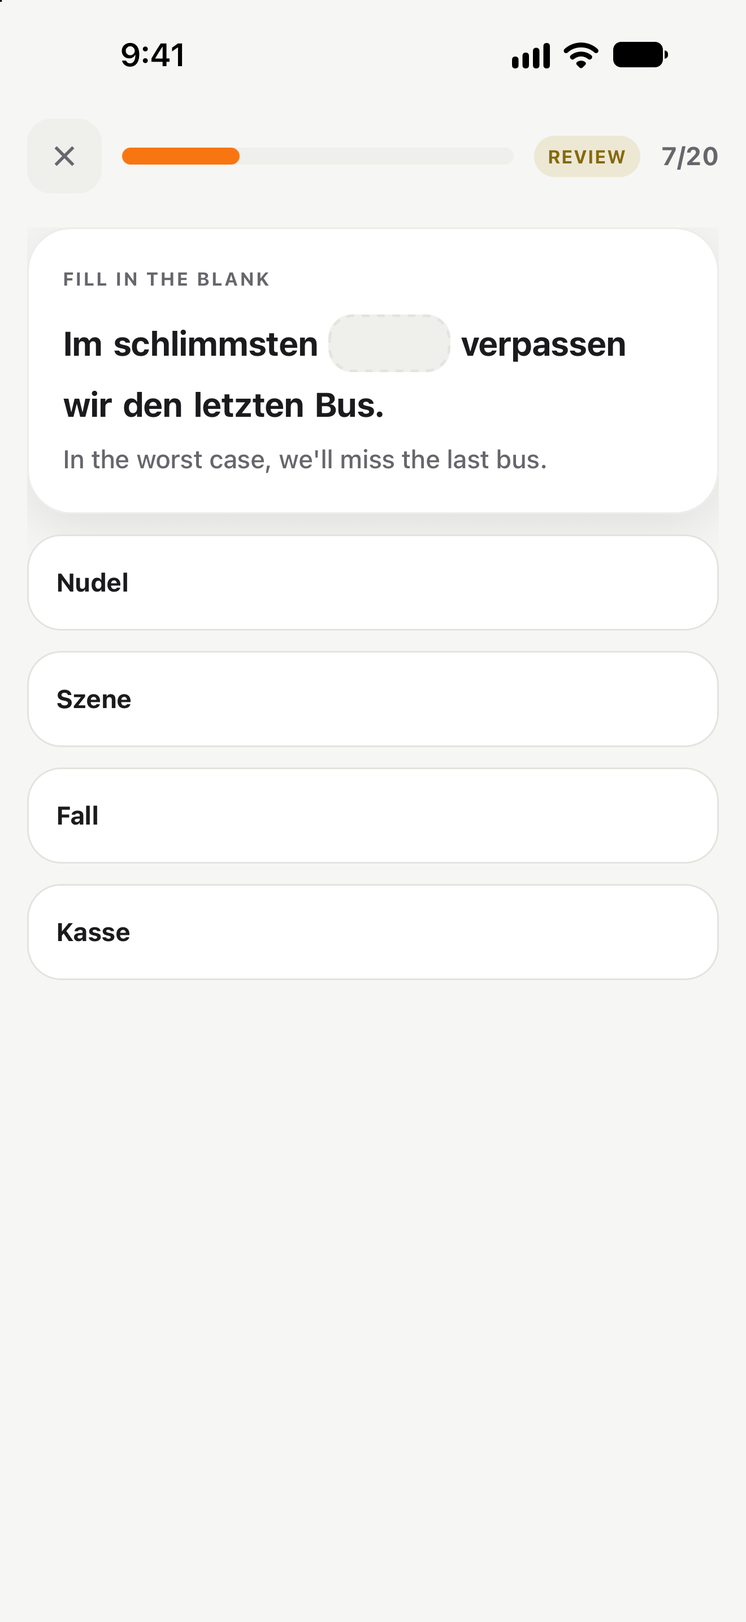
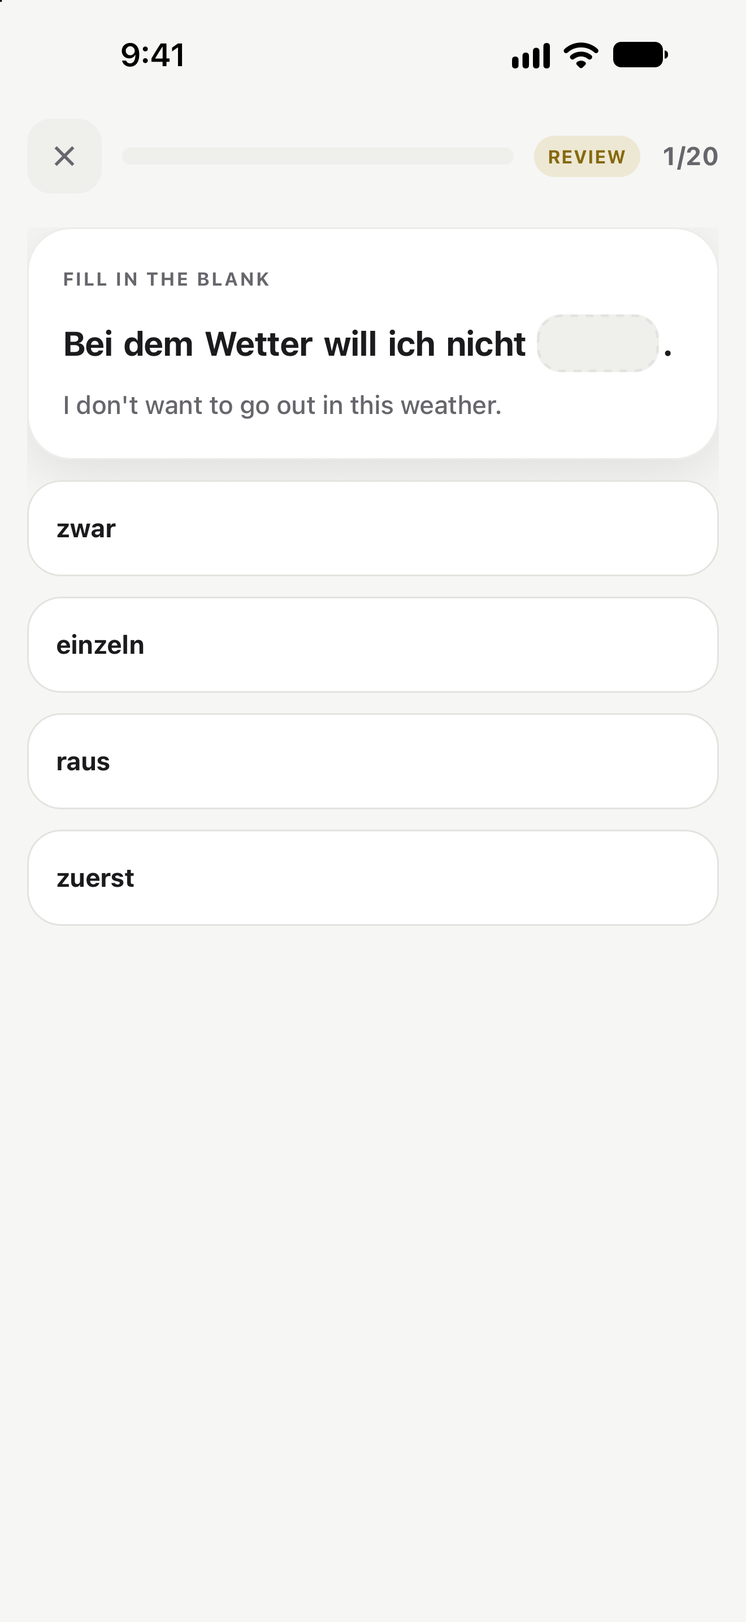
Vitrin 8. tur: en/de 'sıfırdan ya da seviyenden', Play kısa açıklaması farkı söylüyor, Premium ne açtığıyla, deneme sınavı görev türleri, günlük tur karesi kasvetsiz cümleyle; hedef kitle paneli
Claude-Session: https://claude.ai/code/session_011dWXugcvRJqz57tBPnvci7

Changed region(s): [[0.0621, 0.1862, 0.9008, 0.5896], [0.1553, 0.0931, 0.3106, 0.1241]]

diff --git a/docs/store/README.md b/docs/store/README.md
@@ -25,8 +25,8 @@ Türkçe anlatım); sınav bu eğitimin sonucu olarak ikinci katman. Sınava haz
 (tarihi olan öğrenci) ayrıca WhatsApp/Telegram grup kampanyasıyla (2 ay) hedefleniyor;
 kampanya vitrinde YOK (görselde fiyat/süreli teklif olmaz), grup sayfasında.
 
-**Altyazı / tek cümle:** **"Konuş, anla, sınava hazırlan"** (tr, 28 karakter; iOS subtitle,
-Play kısa açıklamanın ilk cümlesi). en-US: **"Speak, understand, settle in"** (28) ·
+**Altyazı / tek cümle:** **"Konuş, anla, sınava hazırlan"** (tr, 28 karakter; iOS subtitle. Play kısa
+açıklaması 2026-10-06'dan beri altyazıyı tekrarlamıyor, farkı söylüyor; aşağıda). en-US: **"Speak, understand, settle in"** (28) ·
 de-DE: **"Sprechen, verstehen, bis C1"** (27). 2026-10-05 (prova 3. tur, Samet'in kararı): en ve de
 vitrinde sınav geri planda; taşınan ve iş için öğrenen okur "exam-ready / prüfungsfit"i görüp
 kendini dışarıda hissediyordu (iki turda aynı sonuç). Türkçe vitrin sınav odaklı kalıyor. en/de uzun
@@ -34,7 +34,7 @@ açıklamada sınav bölümü günlük turdan sonra, karelerde sınav karesi 5. 
 Ondan önce "exam-ready" / "prüfungsfit", ilk olarak "ace exams" / "bestehen" vardı ("ace exams" ve
 "bestehen" sınav geçme vaadi sayılabiliyordu; denetim M14 kapandı).
 
-**Play kısa açıklaması (tr, 70):** "Konuş, anla, sınava hazırlan: sıfırdan C1'e Almanca, Türkçe anlatımla." (iOS altyazısıyla aynı cümleyle başlar.)
+**Play kısa açıklaması (tr, 75):** "Almancayı konuşarak öğren: yapay zekâ düzeltir, Türkçe anlatır. Reklam yok." (2026-10-06: altyazıyı tekrarlamak yerine farkı söylüyor: konuşarak, yapay zekâ düzeltmesi, Türkçe anlatım, reklamsız)
 
 **Sayılar (2026-09-25, Samet):** birim KELİME + ALIŞTIRMA + DENEME SINAVI; adım/ünite sayısı
 anılmaz. Yuvarlak ve doğru: Almanca "8.500'den fazla kelime, 900'den fazla alıştırma, **50'den fazla
@@ -131,6 +131,22 @@ içeriği önerilerini reddetti):** Türkçe 3. kare başlığı "Dört becerili
 "Ausbildung, iş ya da aile birleşimi için Almancaya sıfırdan mı başlıyorsun?" (vaat yok; sertifika uyarısı
 yerinde). "Sohbette yazarak da cevap verirsin" girişe taşındı. Yer için üç cümle kısaldı.
 
+**Vitrin provası 8. tur (2026-10-06; Samet beş önerinin hepsini onayladı):**
+- en/de 1. kare ve açılış "sıfırdan ya da seviyenden" (en "From zero or your level to C1", de "Von null oder ab
+  deinem Niveau bis C1"); landing ve meta açıklama aynı.
+- Play kısa açıklaması altyazıyı tekrarlamıyor, farkı söylüyor (konuşarak, yapay zekâ düzeltmesi, anadilde anlatım,
+  reklamsız); tablo aşağıda.
+- Premium paragrafı ne açtığıyla: "Premium; … bütün yapay zekâlı konuşma ve yazma çalışmalarını hemen, tüm deneme
+  sınavlarını (her seviyede 3'lü paketler hâlinde, bitirdikçe sıradaki) ve ekran kapalı Cepte yürüyüşü açar".
+- Deneme sınavlarının görev türleri, marka anmadan: tr/en "e-posta ve görüş yazısı, birlikte plan yapma, kısa sunum"
+  (Almanca kurs: Nachricht/E-Mail, Forumbeitrag, birlikte planlama, sunum); de vitrin İngilizce kursu için
+  "E-Mails und Meinungstexte, Fragen beantworten, gemeinsam diskutieren" (İngilizce kurs: email/letter, opinion,
+  soru-cevap, tartışma). "Sık görülen türler" kurumla bağ iması değil.
+- Günlük tur karesi üç dil çiftinde yeniden çekildi (iPhone + Android telefon): tr/en-de "Bei dem Wetter will ich
+  nicht ___ (raus)", de-en "Did you check the ___ this morning?". Eskileri işsizlik ve işten ayrılma cümlesiydi.
+- Yer için hesap silme cümlesi açıklamadan çıktı (mağazalar uygulama içinde istiyor; uygulamada ve gizlilik
+  politikasında duruyor), tr başarı belgesi ve de abonelik cümlesi kısaldı.
+
 **Vitrin provası 7. tur, 16 kişi (2026-10-06; Samet 1–3'ü onayladı, içerikteki ek sahneleri anma önerisini
 reddetti):** de "Probeprüfungen öffnen sich pro Niveau zu dritt" yanlıştı ("zu dritt" = üç kişi olarak) →
 "in Dreierpaketen". Paket kuralı üç dilde koddaki gibi açık (`computePacks`): "3'lü paketler hâlinde açılır, paketi
@@ -182,7 +198,7 @@ yürüyüş ücretsizde günde 3 tur, `plan.free_walk`) · 5) günlük kelime tu
 | 2 | Konuşma | Patika › Konuşma adımı: sahne sohbeti | A1 ilk sohbet (tr/en: "Hallo!" komşuyla tanışma, de: "Hello!" dil kursunun ilk günü), yazarak cevaplanmış, tek fiil çekimi hatası ve düzeltmesi, üç öneri; yapay zekâ bildirimi görünür (2026-10-05) | Konuş, düzeltmeni anında gör · Gerçek hayattan sahneler; istersen yazarak cevap ver |
 | 3 | Sınav | Deneme sınavı sonucu | B1 deneme sınavı, yazma ya da konuşma bölümünün sonucu: bölüm yüzdesi, "Ölçüm hedeflerine göre" çubukları (görev puanlarından, 745930f5) ve yapılacaklar listesi; incelemede hata→düzeltme. Yeni etiketler ("yapay zekâ puanlar") build 11 ile: çekim build 11+ ile | tr: Dört becerili deneme sınavı · Konuşma ve yazma da puanlanır; her seviyede 1'i ücretsiz, fazlası Premium'da (2026-10-05, 4. tur; en/de başlık "puanlanır" cümlesi) |
 | 4 | Fark | Cepte yürüyüş + kilit ekranı | Ekran kapalı akış; kilit ekranında "Yürüyüş modu açık" | Ekrana bakmadan, yolda çalış · Günde 3 tur ücretsiz, ekran kapalıyken Premium (2026-10-05; ham görüntü ekran açık giriş) |
-| 5 | Alışkanlık | Günlük kelime turu | Sesli tur, kalan kelime sayısı | Her gün, unutmadan önce · Aralıklı tekrar; seri ve arkadaşlarla haftalık lig (oyunlaştırmanın tek karesi, ana mesaj değil) |
+| 5 | Alışkanlık | Günlük kelime turu | "Boşluğu doldur" kartı, gündelik ve kasvetsiz cümle (2026-10-06: tr/en-de "Bei dem Wetter will ich nicht ___", de-en "Did you check the ___ this morning?") | Her gün, unutmadan önce · Aralıklı tekrar; seri ve arkadaşlarla haftalık lig (oyunlaştırmanın tek karesi, ana mesaj değil) |
 | 6 | Beceriler | Beceri kütüphanesi | Beş beceri kartı | Okuma, dinleme, yazma, konuşma, dil bilgisi |
 
 **iPad 13" (yatay, 4 kare):** 1, 2, 3 ve 6 (tablet içerik kolonu en iyi bu ekranlarda).
@@ -213,7 +229,7 @@ Tasarım bu çerçeveyle yapılır:
 **Onaylanan Türkçe uzun açıklama (App Store + Play ortak, 2026-09-25):** 41 iddia koda, canlı
 ayara ve içeriğe karşı doğrulandı (kanıt tablosu oturum çıktısında). Kararlar: belge her yerde
 "başarı belgesi"; seri kademesi tavansız ("sonra her 7 günlük seride yeniden" doğru); fiyat
-cümlesi yok (mağaza ve paywall gösteriyor). Karakter: 3974/4000 (2026-10-06, 7. tur). Anlatım ekranda yazı, sesli okunan yalnız öğrenilen dil ("okursun"). Paragraflar
+cümlesi yok (mağaza ve paywall gösteriyor). Karakter: 3975/4000 (2026-10-06, 8. tur). Anlatım ekranda yazı, sesli okunan yalnız öğrenilen dil ("okursun"). Paragraflar
 tek satır: Console'a yapıştırınca satır ortasında kırılmasın.
 
 ```text
@@ -226,7 +242,7 @@ KONUŞARAK ÖĞREN
 Komşunla tanışırken, doktorda, ev bakarken, iş görüşmesinde, toplantıda… Gerçek hayatta karşına çıkacak durumları yapay zekâ karakteriyle konuşarak çalışırsın. Hatanı hemen düzeltir, takıldığında ne diyebileceğini önerir. İstersen sonunda puanlı konuşmayı denersin.
 
 DÖRT BECERİLİ DENEME SINAVLARI
-Her seviyede 1 deneme sınavı ücretsiz; Premium'da toplamda 50'den fazla. Her birinde okuma, dinleme, yazma ve konuşma bölümleri ve bölüm başına süre var. Okuma ve dinleme otomatik puanlanır; yazma ve konuşma cevaplarını yapay zekâ puanlar ve hatalarını düzeltmeleriyle gösterir. Sonunda başarı yüzdeni ve neye çalışman gerektiğini gösteren bir liste alırsın.
+Her seviyede 1 deneme sınavı ücretsiz; Premium'da toplamda 50'den fazla. Her birinde okuma, dinleme, yazma ve konuşma bölümleri ve bölüm başına süre var; görevler dil sınavlarında sık görülen türlerde: e-posta ve görüş yazısı, birlikte plan yapma, kısa sunum. Okuma ve dinleme otomatik puanlanır; yazma ve konuşma cevaplarını yapay zekâ puanlar ve hatalarını düzeltmeleriyle gösterir. Sonunda başarı yüzdeni ve neye çalışman gerektiğini gösteren bir liste alırsın.
 
 CEPTE YÜRÜYÜŞ
 Yürüyüş modunda ekrana bakmadan çalışırsın: Türkçe ipucunu duyar, kelimeyi sesli söylersin. Ücretsizde ekran açıkken günde 3 tur. Ekran kapalı Cepte yürüyüş Premium'da.
@@ -238,7 +254,7 @@ Günlük kelime turunda aralıklı tekrar, kelimeleri unutmadan önce yeniden ka
 Kelime çalışma, pratik, okuma, dinleme, dil bilgisi ve quiz ücretsiz ve sınırsız; haftalık quiz, günde 3 yürüyüş turu (ekran açık) ve her seviyede 1 deneme sınavı da. Yapay zekâyla konuşma ve yazma da ücretsiz: her seviyede 4'er çalışma; bitirip 7 gün üst üste çalışınca yenileri ve 1 deneme sınavı daha açılır.
 
 PREMIUM
-Premium'da Patika ve Beceriler'deki bütün konuşma ve yazma çalışmaları seri ve bitirme beklemeden açık, tüm deneme sınavları her seviyede 3'lü paketler hâlinde açılır, paketi bitirince sıradaki gelir, ekran kapalı Cepte yürüyüş de açılır. Günlük adil kullanım sınırları Premium sayfasında, satın almadan önce görünür.
+Premium; Patika ve Beceriler'deki bütün yapay zekâlı konuşma ve yazma çalışmalarını hemen, tüm deneme sınavlarını (her seviyede 3'lü paketler hâlinde, bitirdikçe sıradaki) ve ekran kapalı Cepte yürüyüşü açar. Günlük adil kullanım sınırları satın almadan önce Premium sayfasında görünür.
 Premium aylık ya da yıllık, otomatik yenilenen bir aboneliktir; aynı hesapla her cihazda geçerlidir. Yeni abonelere ilk ay ücretsiz; deneme bitmeden iptal edersen ücret alınmaz. Deneme bitmeden 2 gün önce bildirim ve e-postayla hatırlatırız. Dönem bitiminden en az 24 saat önce iptal edilmezse abonelik yenilenir; aboneliğini satın aldığın mağazanın hesap ayarlarından yönetebilir ya da iptal edebilirsin.
 
 İNGİLİZCE DE VAR
@@ -247,9 +263,7 @@ Aynı yapıda İngilizce kursu: A1'den C1'e 7.000'den fazla kelime, 900'den fazl
 HESAPSIZ BAŞLA
 Hesap açmadan başlarsın; hesap açınca ilerlemen taşınır, telefonda, tablette ve web'de devam edersin. Lig, yapay zekâ sohbeti ve değerlendirmesi ile Premium hesap ister; hesapsız Konuşma adımı hazır bir sohbetle sürer. Metnin yapay zekâya ancak iznini verirsen gider. Mikrofon yalnız konuşarak cevap verdiğinde açılır. Sesin sunucuya yalnız izninle gönderilir ve kayıt saklanmaz. Yazılı sohbet geçmişin 30 gün sonra silinir. Lernomi sunucuları AB'de; yapay zekâ ve ses tanıma için dış sağlayıcılar kullanılır.
 
-Modül ve seviye sınavlarını geçince neler yapabildiğini gösteren, paylaşabileceğin bir başarı belgesi alırsın. Deneme sınavlarını Lernomi hazırladı; Lernomi hiçbir sınav kurumuyla bağlantılı değildir, belgeler resmî bir sertifika yerine geçmez.
-
-Hesabını uygulamanın içinden silebilirsin.
+Modül ve seviye sınavlarını geçince paylaşabileceğin bir başarı belgesi alırsın. Deneme sınavlarını Lernomi hazırladı; Lernomi hiçbir sınav kurumuyla bağlantılı değildir, belgeler resmî bir sertifika yerine geçmez.
 
 Kullanım Şartları: https://www.lernomi.app/terms
 Gizlilik Politikası: https://www.lernomi.app/privacy
@@ -262,10 +276,10 @@ sahneler, bağlantılar). Almanca metinde Beceriler "Fertigkeiten" (Samet'in kar
 Haftalık quiz de en/de çevrili (kilitli `quiznative/*` paketleri); "explained in English /
 Erklärungen auf Deutsch" iddiası her içerik türü için doğru.
 
-en-US (3977/4000):
+en-US (3999/4000):
 
 ```text
-Learn German from zero to C1 with Lernomi: explained in English, practiced by speaking. Go beyond word lists: use the language, get feedback on your speaking and writing, and test yourself with mock exams when you're ready. Vocabulary, reading, listening and grammar are free, with no ads.
+Learn German to C1 with Lernomi, from zero or from your level: explained in English, practiced by speaking. Go beyond word lists: use the language, get feedback on your speaking and writing, and test yourself with mock exams when you're ready. Vocabulary, reading, listening and grammar are free, with no ads.
 
 A1 TO C1, STEP BY STEP
 More than 8,500 German words and more than 900 exercises. The Path takes you level by level, unit by unit: every unit has Reading, Listening, Speaking, Writing, Grammar and Quiz steps, and module and level exams show you where you stand. Pick your level or find it with a short placement test. Already know some German? Start at B2 or C1 in Skills, with formal letters, applications and complaints to write.
@@ -280,13 +294,13 @@ A FEW MINUTES A DAY
 In the daily word round, spaced repetition brings words back before you forget them. Review as much as you like in Practice; a weekly quiz, streaks and a league with friends are there too.
 
 FOUR-SKILL MOCK EXAMS
-1 free mock exam per level; more than 50 in total with Premium. Each has Reading, Listening, Writing and Speaking sections, each with its own time limit. Reading and Listening are scored automatically; AI scores your written and spoken answers and shows your mistakes with corrections. At the end you get your score as a percentage and a list of what to work on.
+1 free mock exam per level; more than 50 in total with Premium. Each has Reading, Listening, Writing and Speaking sections, each with its own time limit, and tasks of types common in language exams: emails and opinion posts, planning together, short presentations. Reading and Listening are scored automatically; AI scores your written and spoken answers and shows your mistakes with corrections. At the end you get your score as a percentage and a list of what to work on.
 
 FREE
 Vocabulary, practice, reading, listening, grammar and quizzes are free and unlimited, plus the weekly quiz, 3 walk rounds a day with the screen on and 1 mock exam per level. AI speaking and writing are free to try: 4 tasks each per level; finish them and study 7 days in a row to unlock more plus 1 more mock exam.
 
 PREMIUM
-With Premium, every speaking and writing task in Path and Skills is open with no waiting for streaks or finishing, all mock exams open in packs of 3 per level, the next pack once you finish one, and Pocket Walking keeps going with the screen off. Daily fair-use limits are shown on the Premium page before you buy.
+Premium opens every AI speaking and writing task in Path and Skills right away, all mock exams (in packs of 3 per level, the next as you finish) and Pocket Walking with the screen off. Daily fair-use limits are shown on the Premium page before you buy.
 Premium is a monthly or yearly auto-renewing subscription and works with the same account on phone, tablet and the web. New subscribers get the first month free; cancel before the trial ends and you won't be charged. We remind you by notification and email 2 days before the trial ends. It renews unless canceled at least 24 hours before the end of the period; manage or cancel it in the account settings of the store you bought it from.
 
 START WITHOUT AN ACCOUNT
@@ -294,16 +308,14 @@ Start without an account; create one later and your progress moves with you to p
 
 Pass module and level exams to earn a certificate of achievement you can share, showing what you can do. The mock exams are Lernomi's own; Lernomi is not affiliated with any exam provider, and certificates of achievement are not official certificates.
 
-You can delete your account right in the app.
-
 Terms of Use: https://www.lernomi.app/terms/en
 Privacy Policy: https://www.lernomi.app/privacy/en
 ```
 
-de-DE (3977/4000):
+de-DE (3995/4000):
 
 ```text
-Lerne mit Lernomi Englisch von null bis C1, mit Erklärungen auf Deutsch und durch Sprechen. Du benutzt die Sprache, bekommst Feedback zu Sprechen und Schreiben und misst dich mit Probeprüfungen. Vokabeln, Lesen, Hören und Grammatik: kostenlos, ohne Werbung.
+Lerne mit Lernomi Englisch bis C1, von null oder ab deinem Niveau, mit Erklärungen auf Deutsch und durch Sprechen. Du benutzt die Sprache, bekommst Feedback zu Sprechen und Schreiben und misst dich mit Probeprüfungen. Vokabeln, Lesen, Hören und Grammatik: kostenlos, ohne Werbung.
 
 VON A1 BIS C1, SCHRITT FÜR SCHRITT
 Mehr als 7.000 Wörter und mehr als 900 Übungen. Der Pfad führt dich Niveau für Niveau, Einheit für Einheit: Jede Einheit hat die Schritte Lesen, Hören, Sprechen, Schreiben, Grammatik und Quiz; Modul- und Niveauprüfungen zeigen, wo du stehst. Dein Startniveau wählst du selbst oder per kurzem Einstufungstest. Mit Vorkenntnissen startest du bei den Fertigkeiten auf B2 oder C1, auch mit formellen Briefen, E-Mails und Berichten.
@@ -318,21 +330,19 @@ JEDEN TAG EIN PAAR MINUTEN
 In der täglichen Runde bringt verteilte Wiederholung Wörter zurück, bevor du sie vergisst. Dazu Wochen-Quiz, Serie und Liga mit Freunden.
 
 PROBEPRÜFUNGEN IN VIER FERTIGKEITEN
-1 Probeprüfung pro Niveau kostenlos, mit Premium insgesamt mehr als 50. Jede hat die Teile Lesen, Hören, Schreiben und Sprechen mit eigener Zeit. Lesen und Hören werden automatisch bewertet; Geschriebenes und Gesprochenes bewertet eine KI und zeigt deine Fehler mit Korrektur. Am Ende siehst du dein Ergebnis in Prozent und woran du arbeiten solltest.
+1 Probeprüfung pro Niveau kostenlos, mit Premium insgesamt mehr als 50. Jede hat die Teile Lesen, Hören, Schreiben und Sprechen mit eigener Zeit, mit gängigen Aufgabentypen: E-Mails und Meinungstexte, Fragen beantworten, gemeinsam diskutieren. Lesen und Hören werden automatisch bewertet; Geschriebenes und Gesprochenes bewertet eine KI und zeigt deine Fehler mit Korrektur. Am Ende siehst du dein Ergebnis in Prozent und woran du arbeiten solltest.
 
 KOSTENLOS
 Vokabeln, Üben, Lesen, Hören, Grammatik und Quiz sind kostenlos und unbegrenzt, dazu das Wochen-Quiz, 3 Geh-Runden am Tag bei eingeschaltetem Bildschirm und 1 Probeprüfung pro Niveau. Sprechen und Schreiben mit der KI testest du kostenlos: je 4 Aufgaben pro Niveau; schließt du sie ab und lernst 7 Tage am Stück, kommen weitere und 1 Probeprüfung dazu.
 
 PREMIUM
-Mit Premium sind alle Sprech- und Schreibaufgaben in Pfad und Fertigkeiten offen, ohne auf Serie oder Abschluss zu warten, alle Probeprüfungen öffnen sich pro Niveau in Dreierpaketen, das nächste nach dem Abschluss, und der Taschen-Gehmodus läuft mit Bildschirm aus. Tägliche Fair-Use-Grenzen: vor dem Kauf auf der Premium-Seite.
-Premium ist ein sich automatisch verlängerndes Monats- oder Jahresabo und gilt mit demselben Konto auf Handy, Tablet und im Web. Neue Abonnenten bekommen den ersten Monat kostenlos; kündigst du vor Ende der Testphase, zahlst du nichts. Wir erinnern dich 2 Tage vorher per Mitteilung und E-Mail. Es verlängert sich, wenn du nicht mindestens 24 Stunden vor Ende des Zeitraums kündigst; verwalten und kündigen kannst du es in den Kontoeinstellungen deines Stores.
+Premium öffnet sofort alle KI-Sprech- und Schreibaufgaben in Pfad und Fertigkeiten, alle Probeprüfungen (pro Niveau in Dreierpaketen, das nächste nach dem Abschluss) und den Taschen-Gehmodus mit Bildschirm aus. Tägliche Fair-Use-Grenzen: vor dem Kauf auf der Premium-Seite.
+Premium ist ein sich automatisch verlängerndes Monats- oder Jahresabo für Handy, Tablet und Web mit demselben Konto. Neue Abonnenten bekommen den ersten Monat kostenlos; kündigst du vor Ende der Testphase, zahlst du nichts. Wir erinnern dich 2 Tage vorher per Mitteilung und E-Mail. Es verlängert sich, wenn du nicht mindestens 24 Stunden vor Ende des Zeitraums kündigst; verwalten und kündigen kannst du es in den Kontoeinstellungen deines Stores.
 
 OHNE KONTO STARTEN
 Starte ohne Konto; mit Konto kommt dein Fortschritt mit, auf Handy, Tablet und im Web. Liga, KI-Gespräche, KI-Feedback und Premium brauchen ein Konto; ohne läuft der Sprechen-Schritt als vorbereitetes Gespräch. Dein Text geht nur mit deiner Erlaubnis an die KI. Das Mikrofon öffnet sich nur, wenn du sprechend antwortest. Audio geht nur mit deiner Erlaubnis an den Server, und die Aufnahme wird nicht gespeichert. Dein Chatverlauf wird nach 30 Tagen gelöscht. Lernomis Server stehen in der EU; für KI und Spracherkennung nutzen wir externe Anbieter.
 
 Bestandene Modul- und Niveauprüfungen bringen dir einen teilbaren Leistungsnachweis. Die Probeprüfungen stammen von Lernomi; Lernomi ist mit keinem Prüfungsanbieter verbunden, ein Leistungsnachweis ersetzt kein offizielles Zertifikat.
-
-Dein Konto löschst du in der App.
 
 Nutzungsbedingungen: https://www.lernomi.app/terms/de
 Datenschutzerklärung: https://www.lernomi.app/privacy/de
@@ -342,7 +352,7 @@ Datenschutzerklärung: https://www.lernomi.app/privacy/de
 
 | Alan | tr | en-US | de-DE |
 |---|---|---|---|
-| Play kısa açıklama (80) | yukarıda (70) | `Speak, understand, settle in: German from zero to C1, explained in English.` (75) | `Sprechen, verstehen, bis C1: Englisch von null an, auf Deutsch erklärt.` (71) |
+| Play kısa açıklama (80) | yukarıda (70) | `Real-life German conversations with AI feedback, explained in English. No ads.` (78) | `Englisch im Gespräch: KI-Korrektur, Erklärungen auf Deutsch, keine Werbung.` (75) |
 | iOS tanıtım metni (170, incelemesiz değişir) | `Almancayı sıfırdan ya da kendi seviyenden C1'e öğren: gerçek hayattan durumlarda konuş, her gün kelime turu yap, ücretsiz deneme sınavıyla nerede olduğunu gör.` (159) | `Learn German step by step from zero to C1: talk through real-life situations, do a daily word round and see where you stand with a free mock exam at every level.` (161) | `Englisch Schritt für Schritt von null bis C1: sprich in Alltagssituationen, übe täglich Wörter und sieh mit einer kostenlosen Probeprüfung pro Niveau, wo du stehst.` (164) |
 | iOS anahtar kelimeler (100 bayt) | `ingilizce,kelime,sınav,deneme,dil,gramer,dinleme,okuma,yazma,konuşma,sıfırdan,alman,a2,b1,b2` (96 bayt) | `vocabulary,beginner,grammar,listening,reading,writing,speaking,course,deutsch,mock,test,a2,b1,b2` (96 bayt) | `vokabeln,wortschatz,grammatik,hören,lesen,schreiben,prüfung,probeprüfung,anfänger,kurs,a2,b1,b2` (99 bayt) |
 
@@ -431,6 +441,18 @@ okundu (2026-09-27, Samet çalıştırdı; denetim S9).
 "Start free trial", deneme/yenileme şartı ve bağlantılar bir karede; iki aboneliğe yüklendi (2026-10-01).
 `screenshots@` hesabı Premium olduğu için çekim süresince bonus Premium geçici kapatıldı ve birebir geri
 yazıldı (Samet'in onayıyla). App Preview videosu: aşağıda "Vitrin videosu".
+
+## Vitrin provası paneli (hedef kitle, 2026-10-06)
+
+Prova (bağımsız ve şüpheci bir değerlendirici, kişiler dil modeli canlandırması) Samet'in hedef kitlesiyle kurulur:
+lisans/lisansüstü öğrenciler, iş arayanlar, aile birleşimi ve oturum için dil şartı olanlar. Emekli, gezgin, film/şarkı
+için öğrenen, "resmî yazı" isteyen akıcı konuşan hedef dışıdır; itirazları sorun listesine girmez.
+
+| Vitrin | Kişiler |
+|---|---|
+| tr (Almanca kursu) | Elif 23 Ausbildung A1 · Murat 36 oturum için B1 sınavı · Ayşe 29 aile birleşimi A1 · Zeynep 20 Erasmus lisans A2 · Burak 24 Almanya'da yüksek lisans başvurusu B2→C1 · Emre 27 iş arayan (Chancenkarte) A2 · Kerem 31 iş teklifi B1–B2 · Selin 33 hemşire, denklik için B2 |
+| en (Almanca kursu) | Daniel 29 işle Münih'e taşınıyor A1 · Priya 34 Blue Card adayı A1 · Ahmad 26 Leipzig, uyum kursu ve iş için B1 · Lucas 23 Brezilya, Almanya'da yüksek lisans A1 |
+| de (İngilizce kursu) | Jonas 20 lisans, yurt dışı dönemi B1→B2 · Lena 26 İngilizce yüksek lisans başvurusu C1 · Aylin 30 uluslararası firmada iş arıyor B2 · Tobias 24 Ausbildung sonrası yurt dışında iş B1 |
 
 ## Yeniden üretmek
 

diff --git a/docs/store/screenshots.md b/docs/store/screenshots.md
@@ -114,6 +114,11 @@ yeniden alınır.
 - Konuşma karesi 2026-10-05'ten beri A1 ilk sohbetten: "Yazarak cevapla / Answer by typing / Lieber tippen", tek
   fiil çekimi hatası (tr-de "ich kommen aus der Türkei", en-de "ich kommen aus den USA", de-en "I comes from
   Hamburg"). Aynı girdi aynı yanıtı döndürüyor; yanıt zayıfsa cümle değiştirilir.
+- Günlük tur karesinde "boşluğu doldur" kartının cümlesi gündelik ve kasvetsiz seçilir (işsizlik, işten ayrılma gibi
+  cümleler kullanılmaz; 2026-10-06 provası). Kart türüne göre ilerleme: doğru/yanlış kartında "Richtig/Doğru",
+  seçmelide ilk seçenek, sonra "Weiter/Devam"; cevaplar hesaba yazılır (puan ve seri değişir, geri yazılmaz).
+- Arayüz dili değiştirilip geri alınınca Ayarlar › Öğrenme'de kurs seçimi sunucudan kopabiliyor (denetim T21):
+  dönüşte uygulamayı yeniden başlatıp kursu seç, profil satırını sunucuda doğrula.
 - Simülatörü iş bitince kapat: `xcrun simctl shutdown all` (Samet toplantıdayken açık kalmasın).
 
 ## Vitrin videosu kaydı (2026-10-02)
